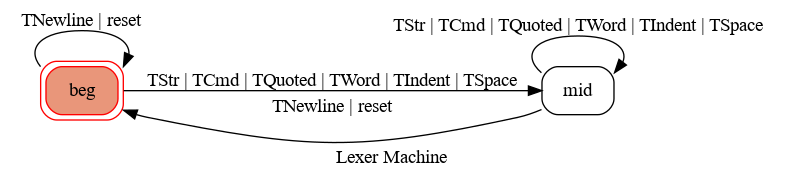
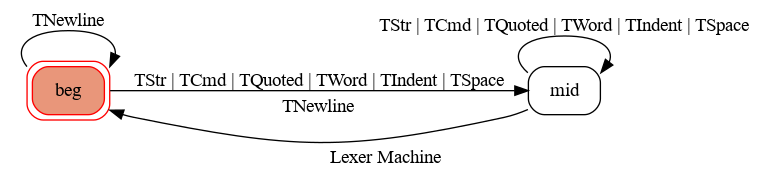
chore(parse): drop unused trigger "reset" for lexer & parser
* img/:
    * regenerate show-fsm-lexer.png & show-fsm-parser.png

diff --git a/toc/parse.py b/toc/parse.py
@@ -109,7 +109,6 @@ _lex_machine_configs = {
     "auto_transitions": False,
     "show_conditions": True,
 }
-add_resetters(_lex_machine_configs, ["reset"], "beg")
 
 _lex_machine = HierarchicalGraphMachine(**_lex_machine_configs)
 
@@ -201,7 +200,6 @@ _parse_machine_configs = {
 }
 ignore_transitions(
     _parse_machine_configs, ["TNewline", "TIndent", "TSpace"], "=")
-add_resetters(_parse_machine_configs, ["reset"], "s", after="__init__")
 
 
 _parse_machine = _ParseMachine(**_parse_machine_configs)
